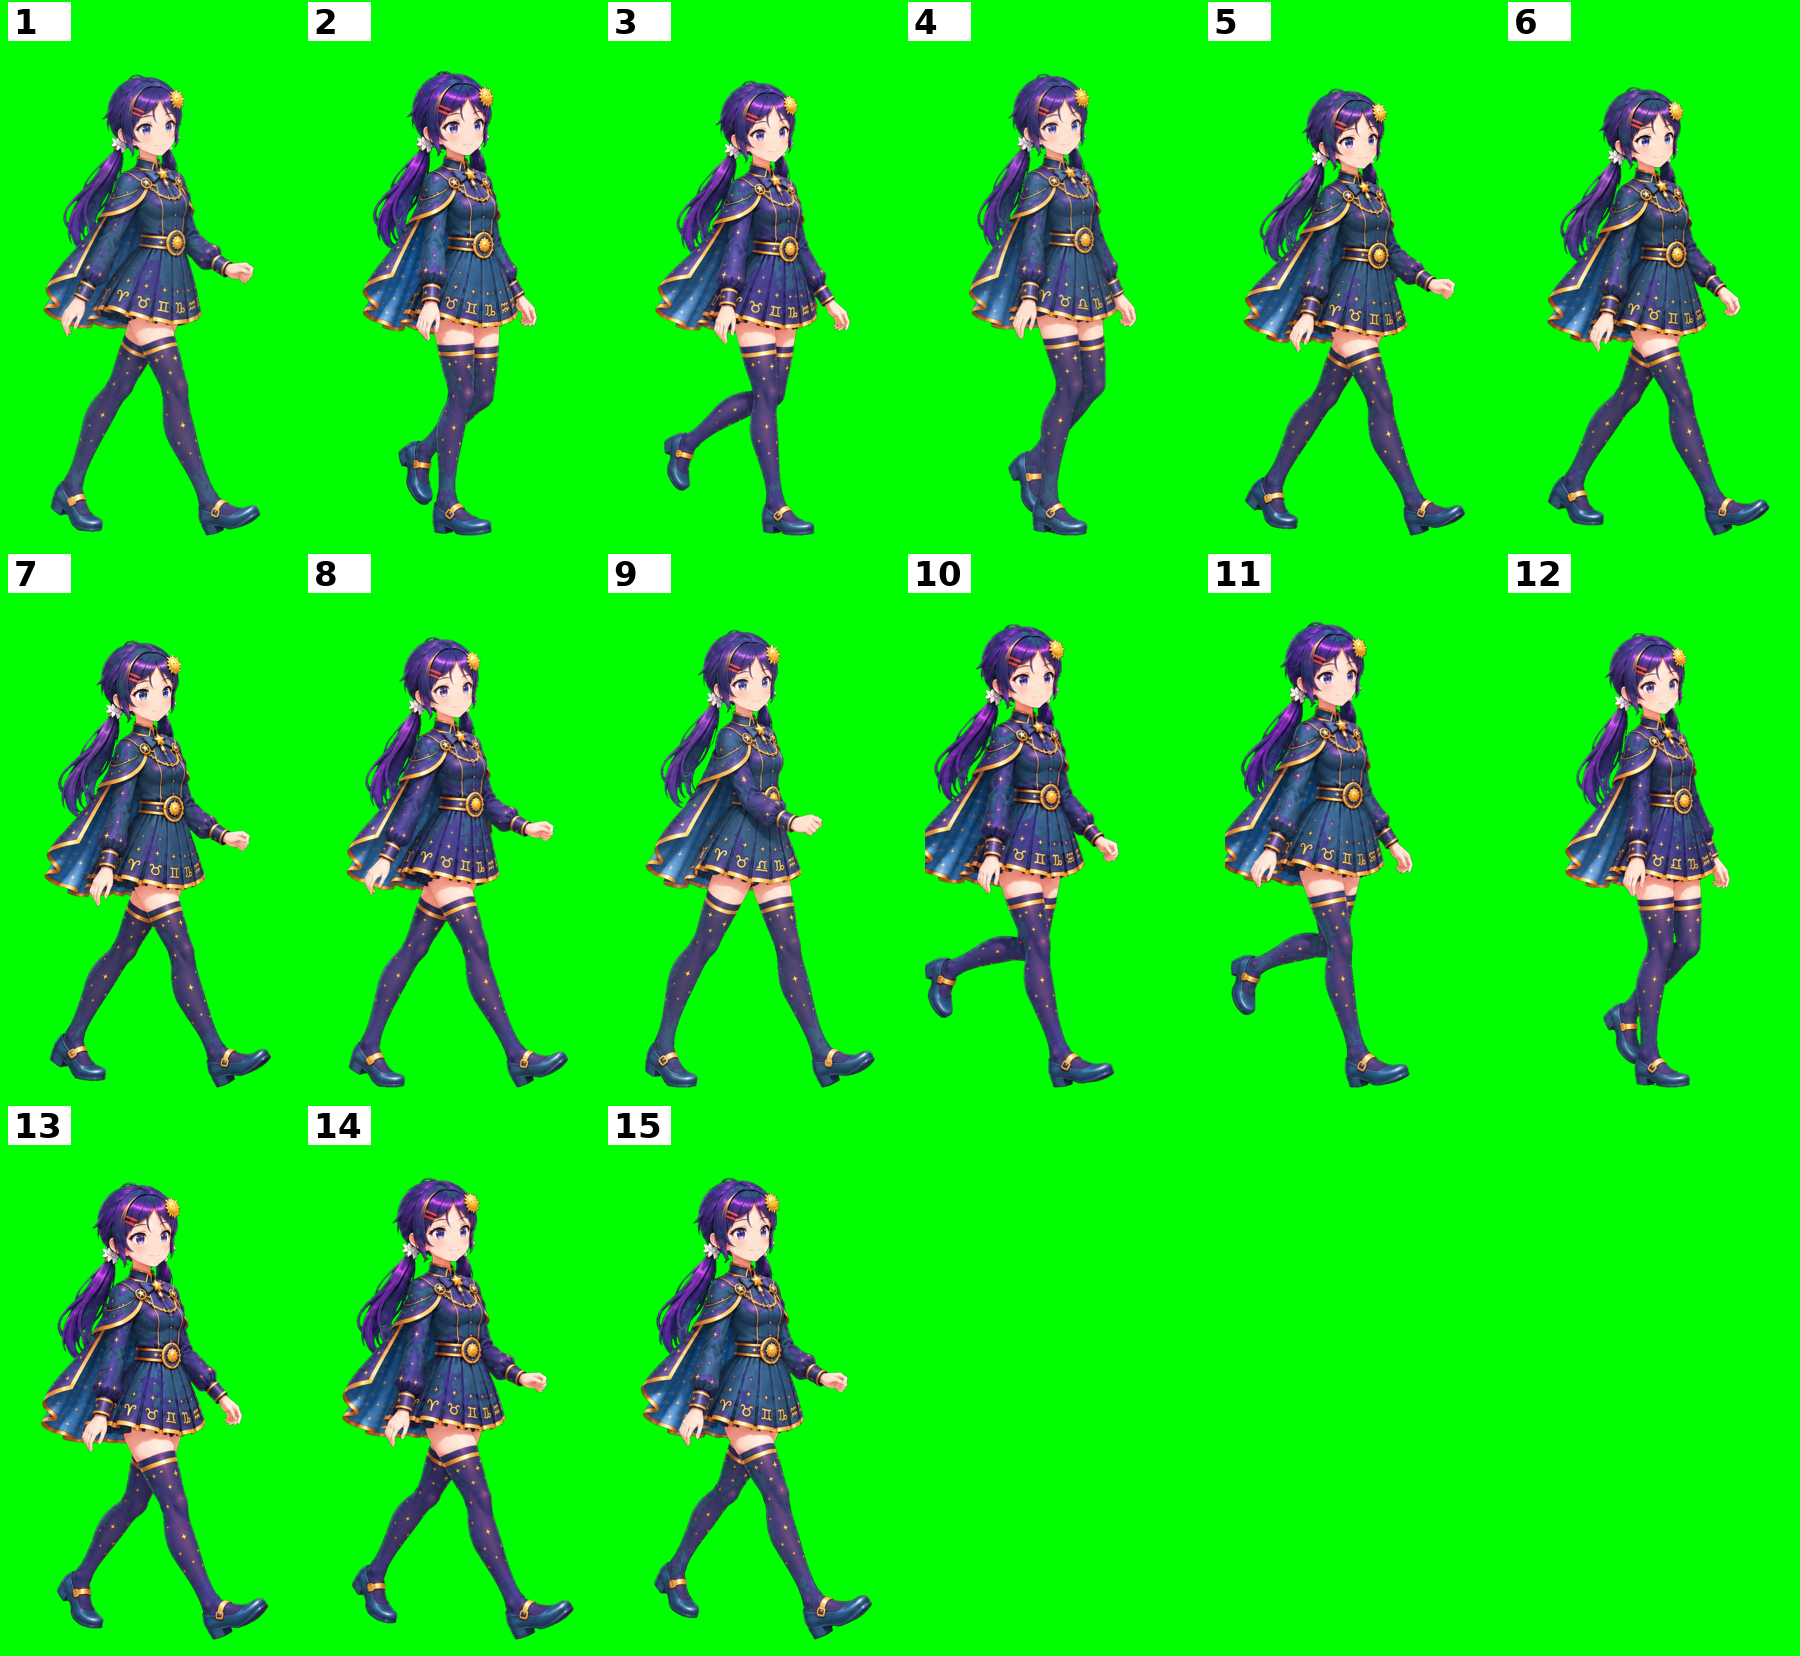
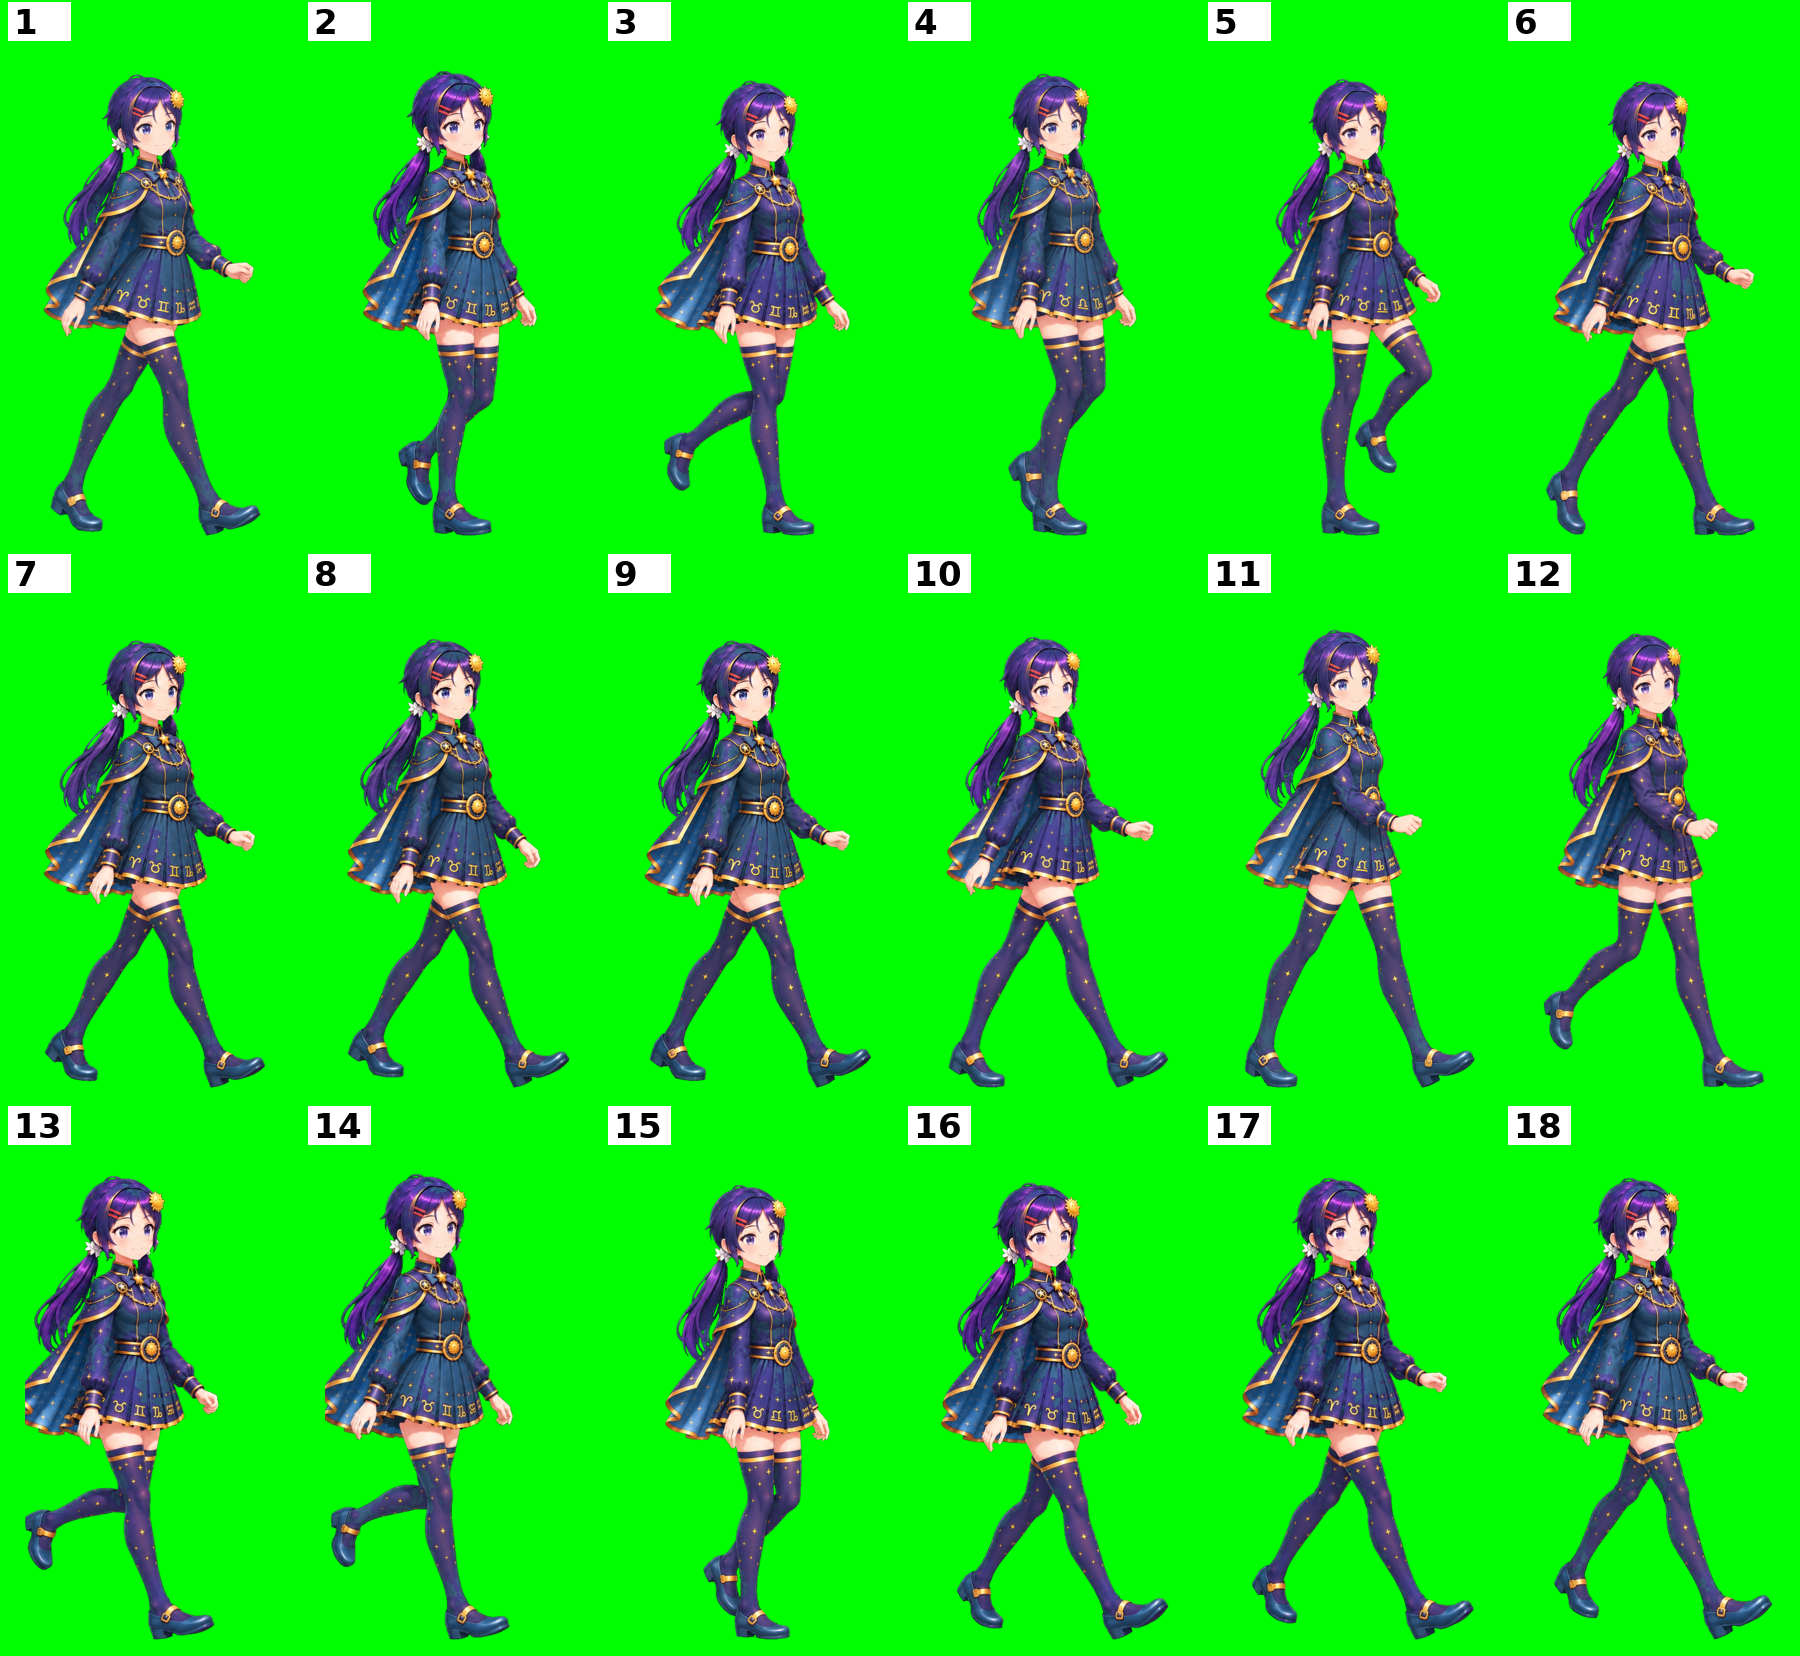
51-mita-craft: ходьба — лист 6 (18 поз в цикле)
Claude-Session: https://claude.ai/code/session_012PNwYZXdw6QfqQCMnTcc5j

diff --git a/projects/51-mita-craft/tools/make_frames.py b/projects/51-mita-craft/tools/make_frames.py
@@ -26,6 +26,7 @@ SHEETS = {
     'sweep_k': 'sweep_1 sweep_5 sweep_9', 'sweep_i1': 'sweep_3 sweep_7 sweep_10',
     'walk_k': 'walk_a walk_b walk_c', 'walk_i1': 'walk_ab walk_bc walk_d', 'walk_i2': 'walk_cd walk_da walk_a2',
     'walk_i3': 'walk_x1 walk_x2 walk_x3', 'walk_i4': 'walk_x4 walk_x5 walk_x6', 'walk_i5': 'walk_x7 walk_x8 walk_x9',
+    'walk_i6': 'walk_y1 walk_y2 walk_y3',
 }
 THIRDS = set()            # бюсты касаются друг друга — режем строго по третям
 CW = 768
